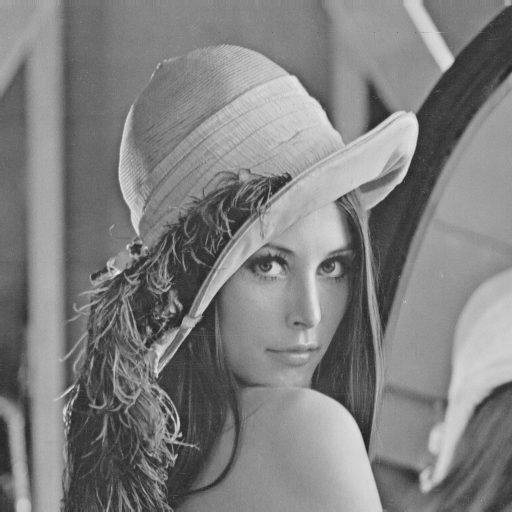
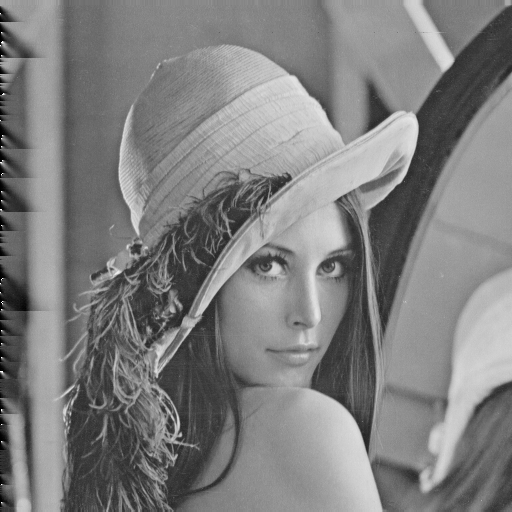
add support for average filter in encoding

Changed region(s): [[0.0, 0.0, 0.0938, 0.875], [0.0, 0.9375, 0.0312, 1.0]]

diff --git a/README.md b/README.md
@@ -4,7 +4,7 @@
 [![coverage](https://codecov.io/gh/DYGV/img4d/branch/master/graph/badge.svg)](https://codecov.io/gh/DYGV/img4d)  
 
 PNG images Decoder/Encoder for D language.  
-Please see current status on [commit page](https://github.com/DYGV/img4d/commits/master)  
+Please see current status on [commit page](https://github.com/DYGV/img4d/commits/master) or [dub page](https://code.dlang.org/packages/img4d)  
 
 **Please feel free to throw PRs or issues.**  
 
@@ -25,6 +25,8 @@ Pixel colorPix = hdr.load("png_img/lena.png");
 ### rgb to grayscale
 ```D
 Pixel grayPix = hdr.rgbToGrayscale(colorPix, true);
+hdr.colorType = colorTypes.grayscale;
+
 ```
 ### 
 ### save(encode)
